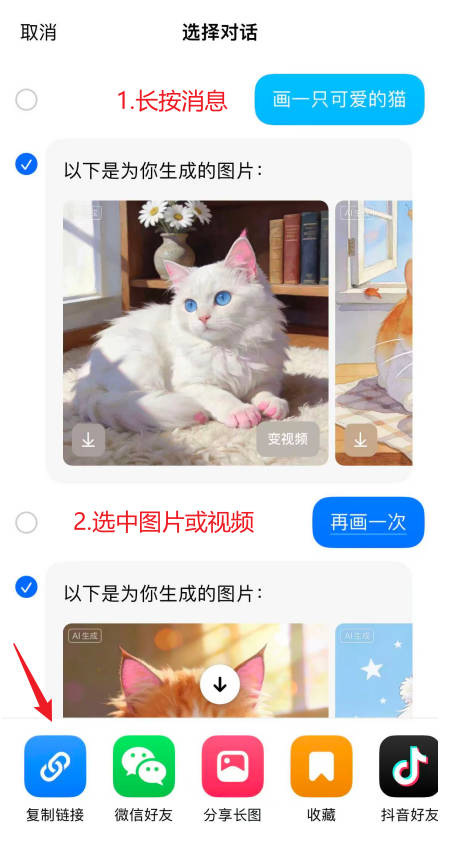
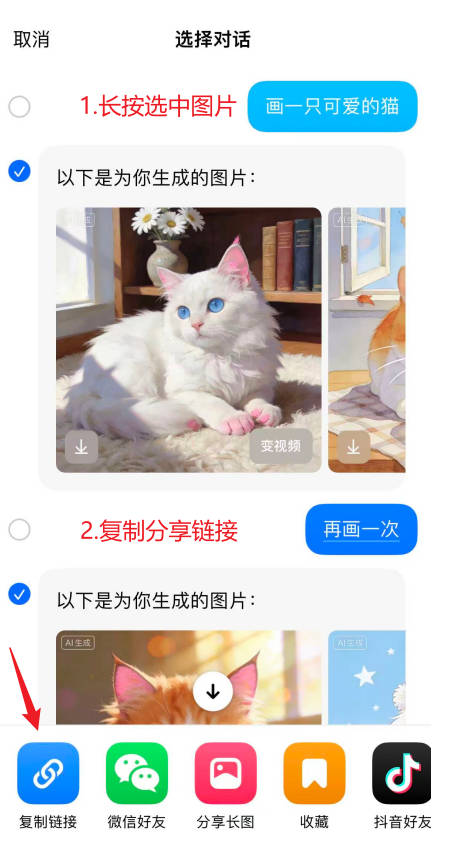
docs: update usage instructions

diff --git a/README.md b/README.md
@@ -127,8 +127,9 @@ video_data = await doubao_video_parse(
 
 | ![copy-image-link.jpg](docs/images/copy-image-link.jpg) | ![copy-video-link.jpg](docs/images/copy-video-link.jpg) |
 | :-----------------------------------------------------: | :-----------------------------------------------------: |
+|                    获取图片分享链接                     |                    获取视频分享链接                     |
 
-
+**注意，获取视频分享链接的方式跟图片的相比略有不同。**获取视频分享地址需要直接长按在视频上，然后点击分享，如果是iphone手机可以直接点击拷贝，即可成功复制到地址。安卓手机可以通过选择在浏览器打开或者分享到微信打开，然后再复制其地址。
 
 ### 访问 API 文档
 
